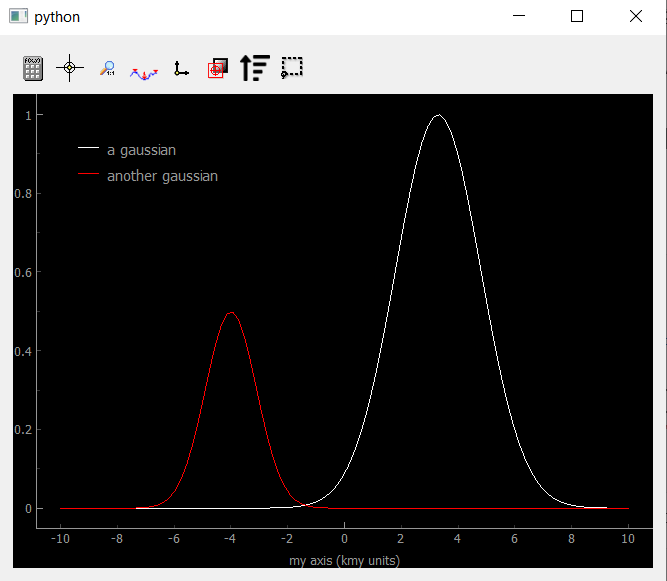
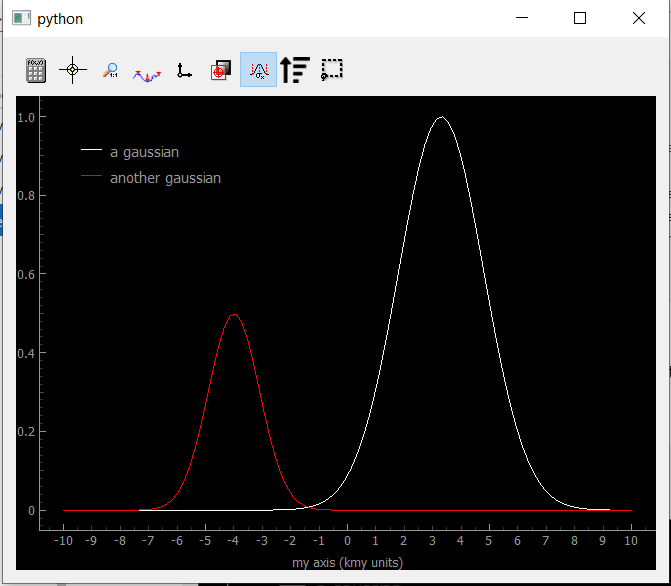
updated doc and notebook including the new notion of errors

diff --git a/docs/src/user_folder/data_management/data_objects.rst b/docs/src/user_folder/data_management/data_objects.rst
@@ -11,6 +11,7 @@ Data in PyMoDAQ are objects with many characteristics:
 *  units
 *  axes
 *  actual data as numpy arrays
+*  uncertainty/error bars
 
 .. figure:: /image/data/data.png
    :alt: What is data?
@@ -42,9 +43,12 @@ PyMoDAQ, which are also described below with examples on how to use them.
 DataBase
 --------
 
-`DataBase`, see :ref:`data_api`, is the most basic object to store data. It takes as argument a name,
-a :term:`DataSource`, a :term:`DataDim`, a :term:`DataDistribution`, the actual data as a list of numpy arrays (even for scalars), labels (a name for each element
-in the list), eventually an origin (a string from which module it originates) and optional named arguments.
+`DataBase`, see :ref:`data_api`, is the most basic object to store data (it should in fact not be used for real cases,
+please use DataWithAxes). It takes as argument a name,
+a :term:`DataSource`, a :term:`DataDim`, a :term:`DataDistribution`, the actual data
+as a list of numpy arrays (even for scalars), labels (a name for each element
+in the list), eventually an origin (a string from which module it originates) and
+optional named arguments.
 
 
 >>> import numpy as np
@@ -145,7 +149,8 @@ array([11., 15.])
 DataWithAxes
 ------------
 
-When dealing with data having axes, the ``DataBase`` object is no more enough to describe the data.
+When dealing with data having axes (even 0D data can be defined as DataWithAxes),
+the ``DataBase`` object is no more enough to describe the data.
 PyMoDAQ therefore introduces ``DataWithAxes`` which inherits from ``DataBase`` and introduces more
 metadata and functionalities.
 
@@ -175,6 +180,26 @@ array([5, 6])
 array([[2, 3],
        [5, 6]])
 
+
+.. _errors:
+
+Uncertainty/error bars
+----------------------
+The result of a measurement can be captured through averaging of several identical data. This
+batch of data can be saved as a higher dimensionality data (see :ref:`DAQ_Scan_module` averaging).
+However the data could also be represented by the mean of this average and the standard deviation from
+the mean. `DataWithAxes` introduces therefore this concept as another object attribute: `errors`.
+
+.. code-block::
+
+  data = DataWithAxes('mydata', source=DataSource['raw'], dim=DataDim['Data1D'],
+                      data=[np.array([1,2,3])],
+                      axes=[Axis('axis', index=0, data=np.array([-1, 0, 1])),
+                      errors=[np.array([0.01, 0.03, 0,1])])
+
+
+The `errors` parameter should be either None (default) or a list of numpy arrays (list as long as there are
+data numpy arrays) having the same shape as the actual data.
 
 .. _navigation_signal:
 

diff --git a/docs/src/user_folder/data_management/plotting_data_objects.rst b/docs/src/user_folder/data_management/plotting_data_objects.rst
@@ -101,7 +101,8 @@ will translate into rich plots:
     dwa1D = DataRaw('my_1D_data', data=[mutils.gauss1D(axis.get_data(), 3300, 2500),
                                         mutils.gauss1D(axis.get_data(), -4000, 1500) * 0.5],
                     labels=['a gaussian', 'another gaussian'],
-                    axes=[axis])
+                    axes=[axis],
+                    errors=[0.1* np.random.random_sample((axis.size,)) for _ in range(2)])
     dwa.plot('qt')
 
 
@@ -141,6 +142,7 @@ As for the buttons in the toolbar (you can try them from the notebook):
 -  |sort|: if the axis data is not monotonous, data will be
    represented as a scrambled solid line, using this button will reorder
    the data by ascending values of its axis. See below and figure xx
+-  |errors|: when activated, will display errors (error bars) in the form of a area around the curve
 -  |roiselect|: extra ROI that can be used independantly of the ROI manager
 
 .. figure:: plotting_data/viewer1D_with_roi_crosshair_dot.png
@@ -155,7 +157,17 @@ As for the buttons in the toolbar (you can try them from the notebook):
 .. |xy| image:: plotting_data/viewer1D_xy.png
 .. |overlay| image:: plotting_data/viewer1D_overlay.png
 .. |sort| image:: plotting_data/viewer1D_sort.png
+.. |errors| image:: plotting_data/viewer1D_errors.png
 .. |roiselect| image:: plotting_data/viewer1D_roi_select.png
+
+
+If :ref:`errors` are defined in the data object, the Viewer1D can easily plot them:
+
+.. _errors_fig_1D:
+.. figure:: plotting_data/viewer1D_errors_plot.png
+   :alt: Showing Data1D with errors
+
+   Showing Data1D with error bars as an area around the curves.
 
 If the axis data is not monotonous, data will be represented as a
 scrambled solid line, for instance:
